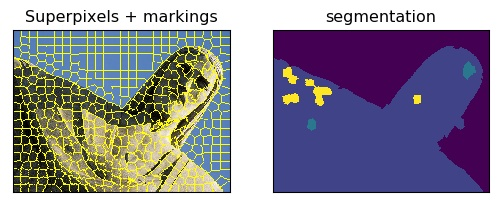
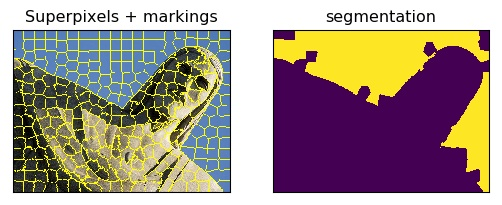
Update

diff --git a/algorithms/algorithms.py b/algorithms/algorithms.py
@@ -18,6 +18,9 @@ class Algorithms:
         self.imgs_segment_ids = dict()                           # List of superpixel indices
         self.imgs_segment_neighbors = dict()                     # Stores for each superpixel a list of its neighbors
         self.imgs_segment_histograms_hsv = dict()                # Stores for each superpixel a hsv histogram
+        self.imgs_sift_keypoints = dict()
+        self.imgs_sift_descriptors = dict()
+        self.imgs_segment_sift_descriptors = dict()
         self.imgs_segment_histograms_hsv_normalized = dict()     # Stores for each superpixel a normalized hsv histogram
         self.imgs_histograms_hsv = dict()                        # A hsv histogram of the entire image
         self.imgs_foreground_segments = dict.fromkeys(image_paths, [])  # List of foreground superpixels
@@ -45,6 +48,20 @@ class Algorithms:
 
             self.imgs_segment_histograms_hsv_normalized[img] = np.float32([h / h.flatten().sum() for h in self.imgs_segment_histograms_hsv[img]])
 
+    def compute_sift(self):
+        sift = cv2.xfeatures2d_SIFT.create()
+        for img in self.images:
+            gray = cv2.cvtColor(cv2.imread(img), cv2.COLOR_BGR2GRAY)
+            self.imgs_sift_keypoints[img], self.imgs_sift_descriptors[img] = sift.detectAndCompute(gray, None)
+
+            self.imgs_segment_sift_descriptors[img] = [np.zeros(128) for i in self.imgs_segment_ids[img]]
+            # TODO experimental: Give each superpixel one sift descriptor
+            for i in range(len(self.imgs_sift_keypoints[img])):
+                x = int(round(self.imgs_sift_keypoints[img][i].pt[0]))
+                y = int(round(self.imgs_sift_keypoints[img][i].pt[1]))
+                self.imgs_segment_sift_descriptors[img][self.imgs_segmentation[img][y][x]] = self.imgs_sift_descriptors[img][i]
+
+
     # Shows a plot of the histogram of the entire image at image_path or one of its segments
     def show_histogram(self, image_path, segment=None):
         if segment is None:
@@ -64,7 +81,7 @@ class Algorithms:
             vs_right = np.vstack([self.imgs_segmentation[img][:, :-1].ravel(), self.imgs_segmentation[img][:, 1:].ravel()])
             vs_below = np.vstack([self.imgs_segmentation[img][:-1, :].ravel(), self.imgs_segmentation[img][1:, :].ravel()])
             neighbor_edges = np.unique(np.hstack([vs_right, vs_below]), axis=1)
-            self.imgs_segment_neighbors[img] = [[] for x in self.imgs_segment_ids[img]]
+            self.imgs_segment_neighbors[img] = [[] for i in self.imgs_segment_ids[img]]
             for i in range(len(neighbor_edges[0])):
                 if neighbor_edges[0][i] != neighbor_edges[1][i]:
                     self.imgs_segment_neighbors[img][neighbor_edges[0][i]].append(neighbor_edges[1][i])
@@ -80,7 +97,7 @@ class Algorithms:
 
     # To be used after superpixel segmentation and feature extraction
     # Segments the image using graph cut
-    def compute_cosegmentations_graph_cut(self):
+    def perform_graph_cut(self):
         def compute_cumulative_histograms():
             # for each image sum up the histograms of the chosen segments
             histograms_fg = [
@@ -175,11 +192,20 @@ class Algorithms:
 
     # To be used after superpixel segmentation and feature extraction.
     # Splits the images up in num_clusters using the given method.
-    def perform_clustering(self, num_clusters=2, method='spectral'):
+    def perform_clustering(self, num_clusters=2, method='spectral', type='histogram'):
         data = []
         for img in self.images:
-            for h in self.imgs_segment_histograms_hsv_normalized[img]:
-                data.append(h.flatten())
+            if type is 'histogram':
+                for h in self.imgs_segment_histograms_hsv_normalized[img]:
+                    data.append(h.flatten())
+            elif type is 'sift':
+                for s in self.imgs_segment_sift_descriptors[img]:
+                    data.append(s)
+            elif type is 'both':
+                for i in range(len(self.imgs_segment_sift_descriptors[img])):
+                    h = self.imgs_segment_histograms_hsv_normalized[img][i].flatten()
+                    s = self.imgs_segment_sift_descriptors[img][i]
+                    data.append(np.concatenate((h, s)))
 
         indices = np.cumsum([len(self.imgs_segment_ids[img]) for img in self.images])
 
@@ -207,6 +233,7 @@ class Algorithms:
 if __name__ == '__main__':
 
     folder_path = '../images_icoseg/043 Christ the Redeemer-Rio de Janeiro-Leonardo Paris/'
+    folder_path = '../images_icoseg/018 Agra Taj Mahal-Inde du Nord 2004-Mhln/'
     image_paths = [folder_path + name for name in listdir(folder_path)]
 
     alg = Algorithms(image_paths)
@@ -218,7 +245,9 @@ if __name__ == '__main__':
     # alg.save_segmented_images('output/superpixel')
 
     # Extract features
-    alg.compute_histograms_hsv(bins_H=20, bins_S=5)
+    alg.compute_sift()
+
+    alg.compute_histograms_hsv(bins_H=20, bins_S=20)
 
     # Retrieve foreground and background segments from marking images in markings folder
     # marking images should be white with red pixels indicating foreground and blue pixels indicating background and
@@ -231,7 +260,7 @@ if __name__ == '__main__':
             alg.set_fg_segments(image, fg_segments)
             alg.set_bg_segments(image, bg_segments)
 
-    alg.perform_clustering(6, 'spectral')
+    alg.perform_clustering(2, 'kmeans', 'both')
 
     for image in image_paths:
         cv2.imwrite('output/masks/'+image.split('/')[-1], np.uint8(alg.get_coseg_mask(image, 0)*255))

diff --git a/algorithms/sift.py b/algorithms/sift.py
@@ -1,26 +1,15 @@
 import cv2
 
 
-# accepts path to the image file and returns uint8 representation of the image
+# accepts path to a BGR image and returns its uint8 grayvalue representation to be used for sift
 def read_image_as_uint8(filename):
-    return cv2.imread(filename)
+    return cv2.cvtColor(cv2.imread(filename), cv2.COLOR_BGR2GRAY)
 
 
-# accepts an uint8 BGR image and converts it to grayvalue
-def to_gray_value(img_uint8):
-    return cv2.cvtColor(img_uint8, cv2.COLOR_BGR2GRAY)
-
-
-# accepts an uint8 grayvalue image and returns the SIFT keypoints
-def get_keypoints(gray_img_uint8, mask=None):
+# accepts an uint8 grayvalue image and returns the SIFT keypoints and descriptors
+def get_sift_keypoints_and_descriptors(gray_img_uint8, mask=None):
     sift = cv2.xfeatures2d_SIFT.create()
-    return sift.detect(gray_img_uint8, mask)
-
-
-# accepts an uint8 grayvalue image and returns the descriptors
-def get_descriptors(gray_img_uint8, keypoints):
-    sift = cv2.xfeatures2d_SIFT.create()
-    return sift.compute(gray_img_uint8, keypoints)
+    return sift.detectAndCompute(gray_img_uint8, mask)
 
 
 # accepts an uint8 input image, keypoints, and uint8 BGR output image, and optional detailed boolean
